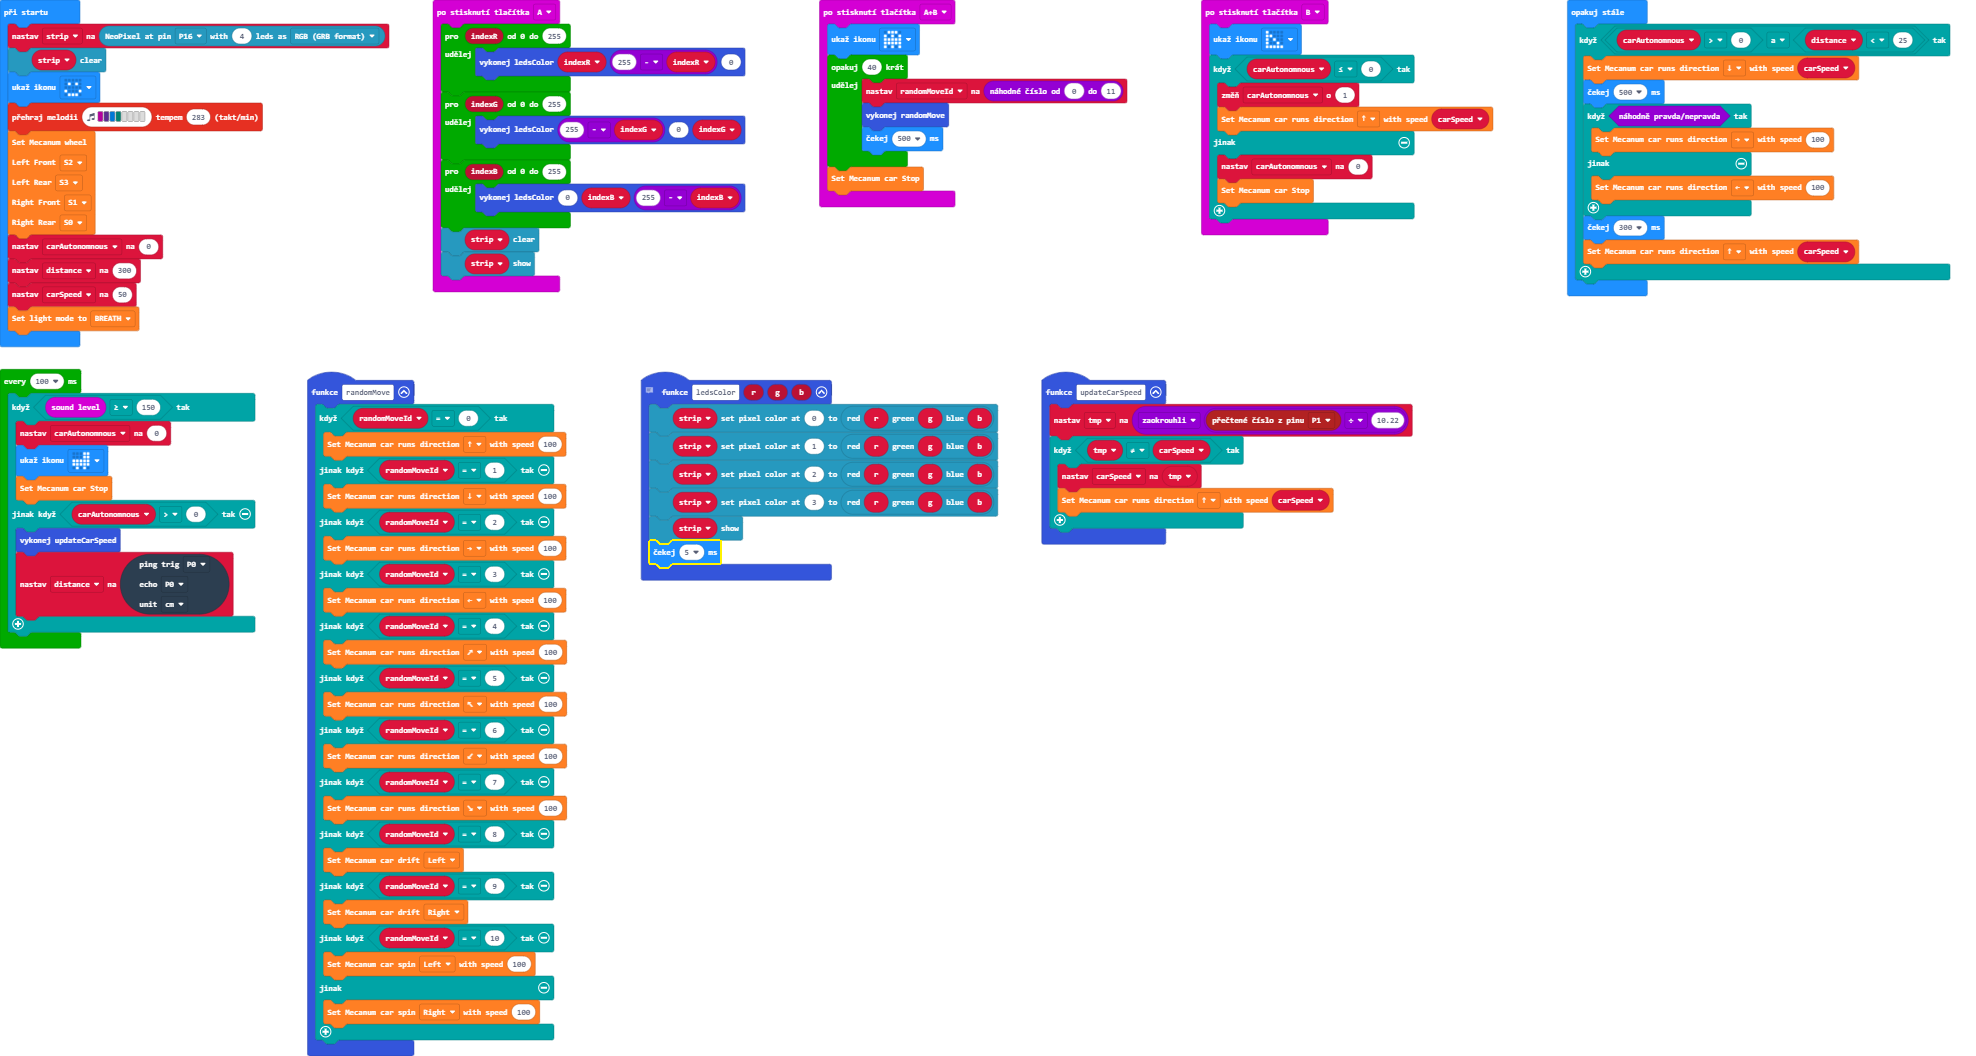
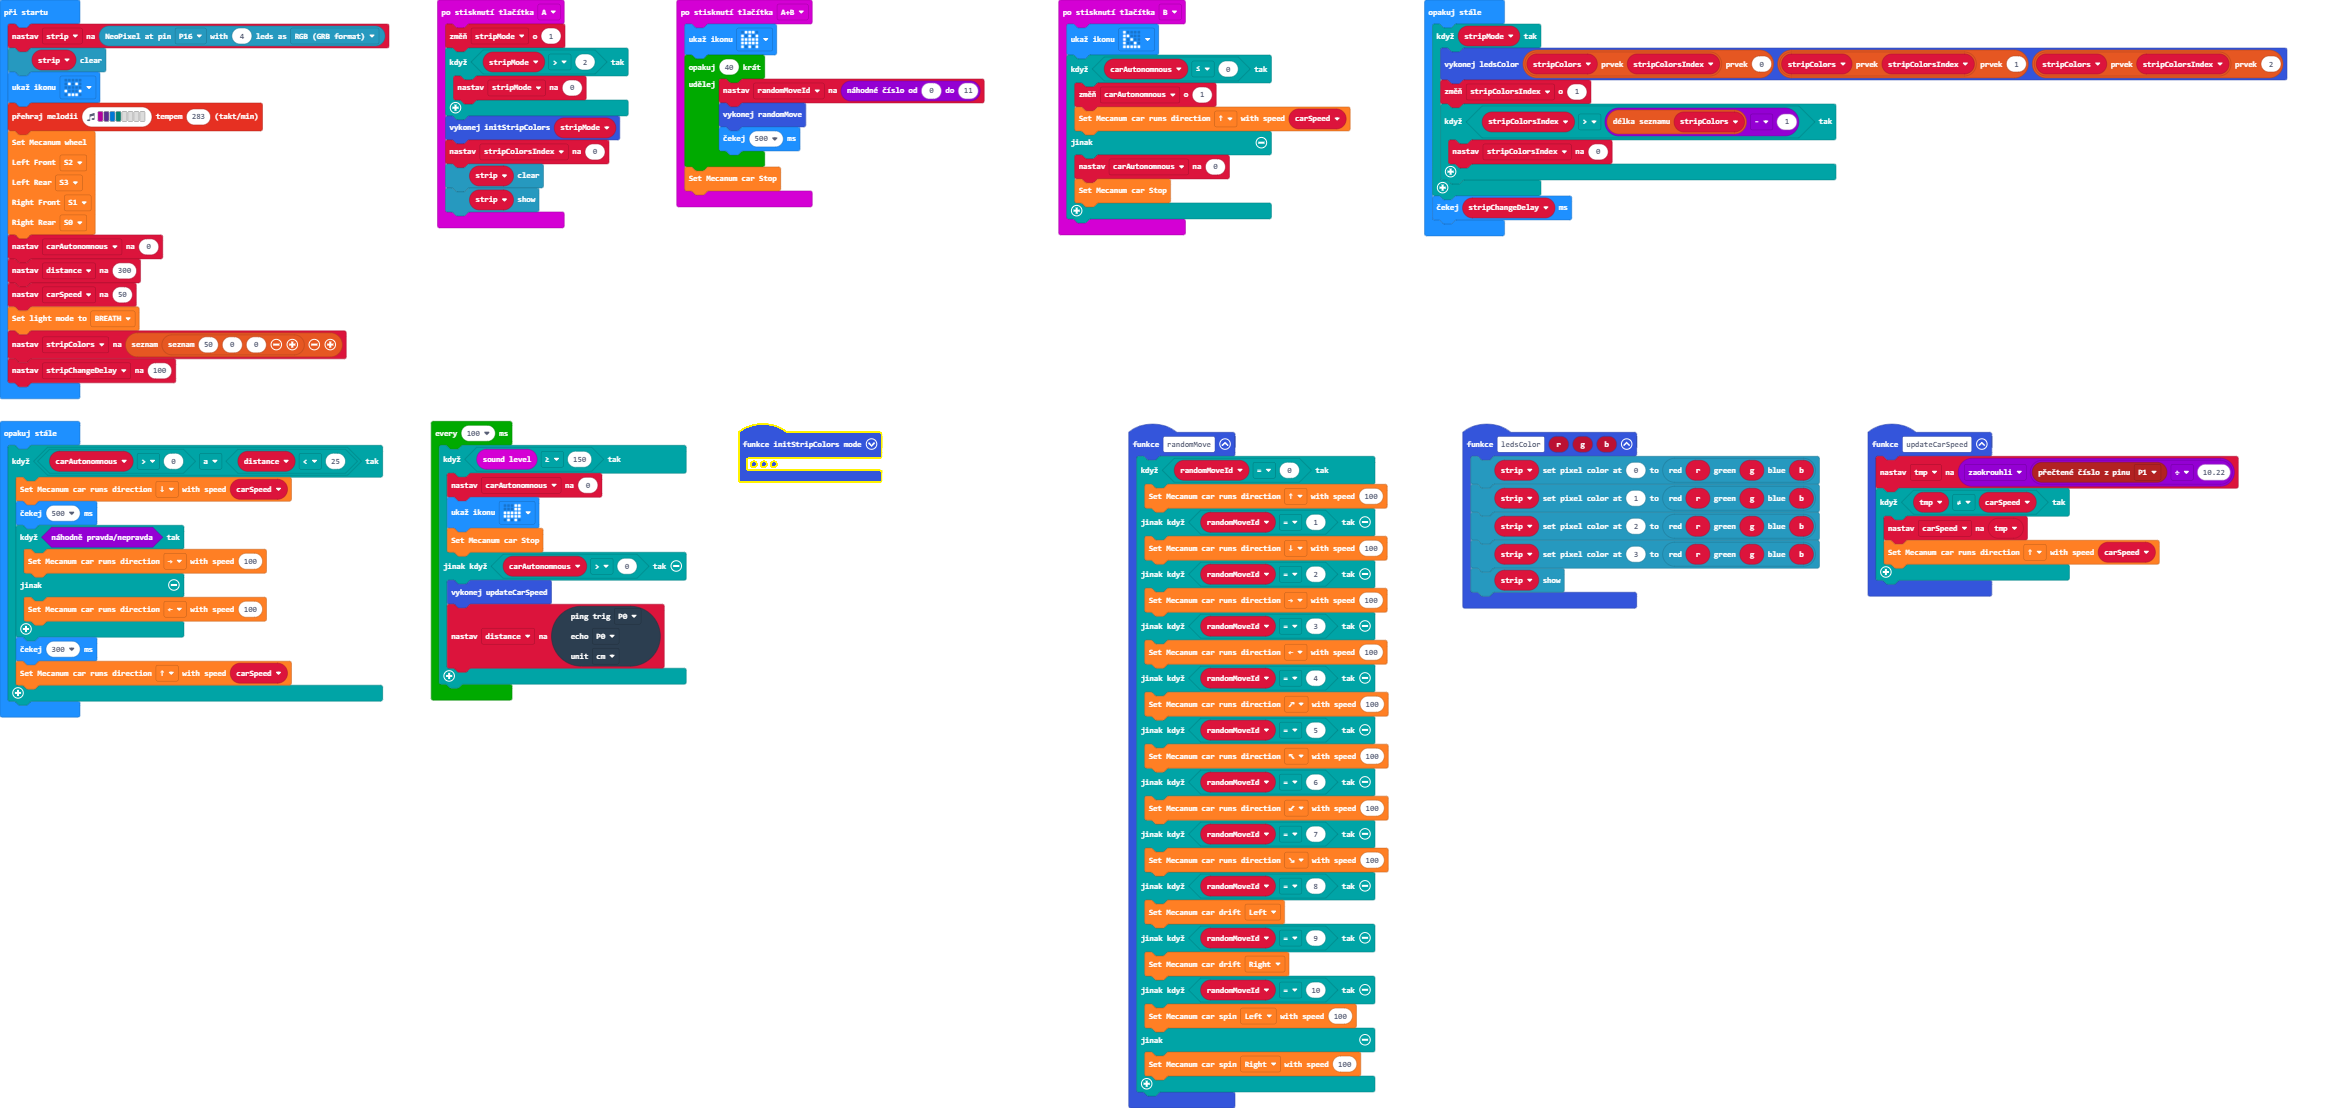
button B to control 4LEDs

diff --git a/main.ts b/main.ts
@@ -25,35 +25,52 @@ function randomMove () {
         wuKong.mecanumSpin(wuKong.TurnList.Right, 100)
     }
 }
-input.onButtonPressed(Button.A, function () {
-    for (let indexR = 0; indexR <= 255; indexR++) {
-        ledsColor(indexR, 255 - indexR, 0)
+function initStripColors (mode: number) {
+    stripChangeDelay = 100
+    if (mode == 1) {
+        stripColors = [[255, 0, 0], [0, 0, 0], [0, 0, 255], [0, 0, 0]]
+    } else if (mode == 2) {
+        stripColors = []
+        for (let indexR = 0; indexR <= 255; indexR++) {
+            stripColors.push([indexR, 255 - indexR, 0])
+        }
+        for (let indexG = 0; indexG <= 255; indexG++) {
+            stripColors.push([255 - indexG, 0, indexG])
+        }
+        for (let indexB = 0; indexB <= 255; indexB++) {
+            stripColors.push([0, indexB, 255 - indexB])
+        }
+        stripChangeDelay = 5
+    } else {
+        // should not be shown
+        stripColors = [[50, 0, 0]]
     }
-    for (let indexG = 0; indexG <= 255; indexG++) {
-        ledsColor(255 - indexG, 0, indexG)
-    }
-    for (let indexB = 0; indexB <= 255; indexB++) {
-        ledsColor(0, indexB, 255 - indexB)
-    }
-    strip.clear()
-    strip.show()
-})
-// basic.pause(5)
+}
 function ledsColor (r: number, g: number, b: number) {
     strip.setPixelColor(0, neopixel.rgb(r, g, b))
     strip.setPixelColor(1, neopixel.rgb(r, g, b))
     strip.setPixelColor(2, neopixel.rgb(r, g, b))
     strip.setPixelColor(3, neopixel.rgb(r, g, b))
     strip.show()
-    basic.pause(5)
 }
 function updateCarSpeed () {
-    tmp = Math.round(pins.analogReadPin(AnalogPin.P1) / 10.22)
+    let tmp = Math.round(pins.analogReadPin(AnalogPin.P1) / 10.22)
     if (tmp != carSpeed) {
         carSpeed = tmp
         wuKong.mecanumRun(wuKong.RunList.Front, carSpeed)
     }
 }
+
+input.onButtonPressed(Button.A, function () {
+    stripMode += 1
+    if (stripMode > 2) {
+        stripMode = 0
+    }
+    initStripColors(stripMode)
+    stripColorsIndex = 0
+    strip.clear()
+    strip.show()
+})
 input.onButtonPressed(Button.AB, function () {
     basic.showIcon(IconNames.Ghost)
     for (let index = 0; index < 40; index++) {
@@ -73,25 +90,33 @@ input.onButtonPressed(Button.B, function () {
         wuKong.mecanumStop()
     }
 })
-let tmp = 0
+
 let randomMoveId = 0
-let carSpeed = 0
+let carSpeed = 50
 let carAutonomnous = 0
+let distance = 300
 let strip: neopixel.Strip = null
+let stripMode = 0
+let stripColorsIndex = 0
+let stripChangeDelay = 100
+let stripColors = [[50, 0, 0]]
 strip = neopixel.create(DigitalPin.P16, 4, NeoPixelMode.RGB)
 strip.clear()
 basic.showIcon(IconNames.Happy)
 music.playMelody("C D E F - - - - ", 283)
-wuKong.mecanumWheel(
-wuKong.ServoList.S2,
-wuKong.ServoList.S3,
-wuKong.ServoList.S1,
-wuKong.ServoList.S0
-)
-carAutonomnous = 0
-let distance = 300
-carSpeed = 50
+wuKong.mecanumWheel(wuKong.ServoList.S2, wuKong.ServoList.S3, wuKong.ServoList.S1, wuKong.ServoList.S0)
 wuKong.setLightMode(wuKong.LightMode.BREATH)
+
+basic.forever(function () {
+    if (stripMode) {
+        ledsColor(stripColors[stripColorsIndex][0], stripColors[stripColorsIndex][1], stripColors[stripColorsIndex][2])
+        stripColorsIndex += 1
+        if (stripColorsIndex > stripColors.length - 1) {
+            stripColorsIndex = 0
+        }
+    }
+    basic.pause(stripChangeDelay)
+})
 basic.forever(function () {
     if (carAutonomnous > 0 && distance < 25) {
         wuKong.mecanumRun(wuKong.RunList.rear, carSpeed)
@@ -112,10 +137,6 @@ loops.everyInterval(100, function () {
         wuKong.mecanumStop()
     } else if (carAutonomnous > 0) {
         updateCarSpeed()
-        distance = sonar.ping(
-        DigitalPin.P0,
-        DigitalPin.P0,
-        PingUnit.Centimeters
-        )
+        distance = sonar.ping(DigitalPin.P0, DigitalPin.P0, PingUnit.Centimeters)
     }
 })
